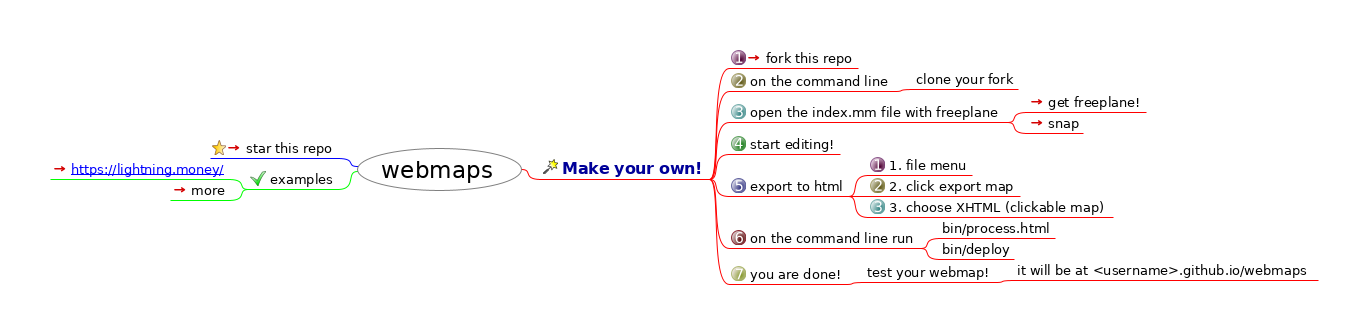
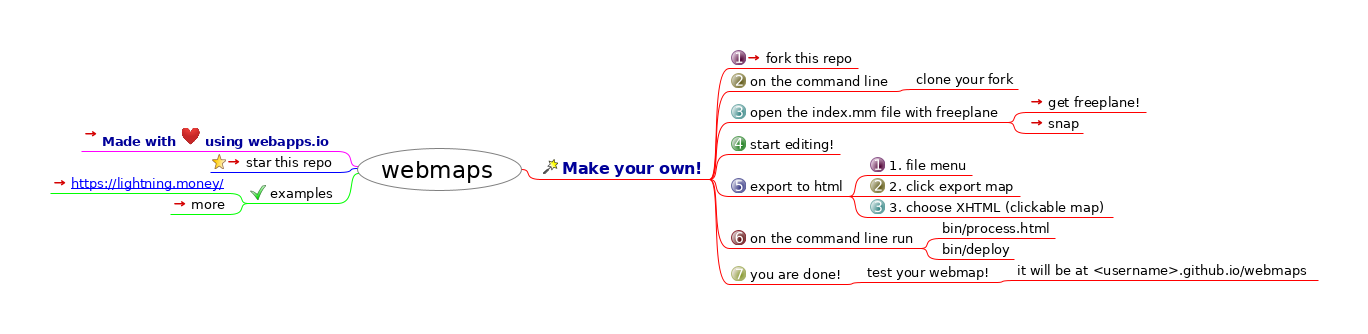
add made with heart

Changed region(s): [[0.0307, 0.3892, 0.2763, 0.6287]]

diff --git a/index.html b/index.html
@@ -42,13 +42,16 @@
 <area shape="rect" href="#FMID_1463249056FM" alt="you are done!" title="you are done!" coords="729,266,846,284" />
 <area shape="rect" href="#FMID_1342426050FM" alt="test your webmap!" title="test your webmap!" coords="865,264,996,282" />
 <area shape="rect" href="#FMID_791049591FM" alt="it will be at &lt;username&gt;.github.io/webma ..." title="it will be at &lt;username&gt;.github.io/webma ..." coords="1015,262,1318,280" />
-<area shape="rect" href="https://github.com/solidpayorg/webmaps/" alt="star this repo" title="star this repo" coords="210,140,338,158" />
-<area shape="rect" href="#FMID_428021122FM" alt="examples" title="examples" coords="248,171,338,189" />
-<area shape="rect" href="https://lightning.money/" alt="https://lightning.money/" title="https://lightning.money/" coords="50,161,229,179" />
-<area shape="rect" href="examples/index.html" alt="more" title="more" coords="170,182,229,200" />
+<area shape="rect" href="https://webapps.io/" alt="Made with  using webapps.io" title="Made with  using webapps.io" coords="81,126,338,151" />
+<area shape="rect" href="https://github.com/solidpayorg/webmaps/" alt="star this repo" title="star this repo" coords="210,154,338,172" />
+<area shape="rect" href="#FMID_428021122FM" alt="examples" title="examples" coords="248,185,338,203" />
+<area shape="rect" href="https://lightning.money/" alt="https://lightning.money/" title="https://lightning.money/" coords="50,175,229,193" />
+<area shape="rect" href="examples/index.html" alt="more" title="more" coords="170,196,229,214" />
 </map>
 
-<div class="node"><img src="index.html_files/hide.png" class="hideshow" alt="hide" onClick="toggle(&quot;N65543&quot;)" id="imgN65543" /><a id="FMID_110073400FM" /><div class="nodecontent" style="color:#000000;font-size:150%;">webmaps</div><div class="content" id="N65543"><div class="node"><img src="index.html_files/hide.png" class="hideshow" alt="hide" onClick="toggle(&quot;N66439&quot;)" id="imgN66439" /><img src="index.html_files/icons/wizard.svg" alt="wizard" /> <a id="FMID_1389208206FM" /><div class="nodecontent" style="color:#000099;font-size:100%;font-weight:bold;">Make your own!</div><div class="content" id="N66439"><div class="node"><img src="index.html_files/leaf.png" class="hideshow" alt="leaf" /><img src="index.html_files/icons/full-1.svg" alt="full-1" /> <a id="FMID_1738668143FM" /><div class="nodecontent" style="color:#000000;font-size:83%;"><a href="https://github.com/solidpayorg/webmaps/">fork this repo</a> <a href="https://github.com/solidpayorg/webmaps/"><img src="index.html_files/ilink.png" alt="User Link" style="border-width:0" /></a></div></div><div class="node"><img src="index.html_files/hide.png" class="hideshow" alt="hide" onClick="toggle(&quot;N66522&quot;)" id="imgN66522" /><img src="index.html_files/icons/full-2.svg" alt="full-2" /> <a id="FMID_1188995541FM" /><div class="nodecontent" style="color:#000000;font-size:83%;">on the command line</div><div class="content" id="N66522"><div class="node"><img src="index.html_files/leaf.png" class="hideshow" alt="leaf" /><a id="FMID_653799488FM" /><div class="nodecontent" style="color:#000000;font-size:83%;">clone your fork</div></div></div></div><div class="node"><img src="index.html_files/hide.png" class="hideshow" alt="hide" onClick="toggle(&quot;N66599&quot;)" id="imgN66599" /><img src="index.html_files/icons/full-3.svg" alt="full-3" /> <a id="FMID_1013629200FM" /><div class="nodecontent" style="color:#000000;font-size:83%;">open the index.mm file with freeplane</div><div class="content" id="N66599"><div class="node"><img src="index.html_files/leaf.png" class="hideshow" alt="leaf" /><a id="FMID_1320208052FM" /><div class="nodecontent" style="color:#000000;font-size:83%;"><a href="https://www.freeplane.org/wiki/index.php/Home">get freeplane!</a> <a href="https://www.freeplane.org/wiki/index.php/Home"><img src="index.html_files/ilink.png" alt="User Link" style="border-width:0" /></a></div></div><div class="node"><img src="index.html_files/leaf.png" class="hideshow" alt="leaf" /><a id="FMID_783749861FM" /><div class="nodecontent" style="color:#000000;font-size:83%;"><a href="https://snapcraft.io/freeplane-mindmapping">snap</a> <a href="https://snapcraft.io/freeplane-mindmapping"><img src="index.html_files/ilink.png" alt="User Link" style="border-width:0" /></a></div></div></div></div><div class="node"><img src="index.html_files/leaf.png" class="hideshow" alt="leaf" /><img src="index.html_files/icons/full-4.svg" alt="full-4" /> <a id="FMID_1410176299FM" /><div class="nodecontent" style="color:#000000;font-size:83%;">start editing!</div></div><div class="node"><img src="index.html_files/hide.png" class="hideshow" alt="hide" onClick="toggle(&quot;N66755&quot;)" id="imgN66755" /><img src="index.html_files/icons/full-5.svg" alt="full-5" /> <a id="FMID_278465196FM" /><div class="nodecontent" style="color:#000000;font-size:83%;">export to html</div><div class="content" id="N66755"><div class="node"><img src="index.html_files/leaf.png" class="hideshow" alt="leaf" /><img src="index.html_files/icons/full-1.svg" alt="full-1" /> <a id="FMID_347519982FM" /><div class="nodecontent" style="color:#000000;font-size:83%;">1. file menu</div></div><div class="node"><img src="index.html_files/leaf.png" class="hideshow" alt="leaf" /><img src="index.html_files/icons/full-2.svg" alt="full-2" /> <a id="FMID_1364431254FM" /><div class="nodecontent" style="color:#000000;font-size:83%;">2. click export map</div></div><div class="node"><img src="index.html_files/leaf.png" class="hideshow" alt="leaf" /><img src="index.html_files/icons/full-3.svg" alt="full-3" /> <a id="FMID_65834416FM" /><div class="nodecontent" style="color:#000000;font-size:83%;">3. choose XHTML (clickable map)</div></div></div></div><div class="node"><img src="index.html_files/hide.png" class="hideshow" alt="hide" onClick="toggle(&quot;N66919&quot;)" id="imgN66919" /><img src="index.html_files/icons/full-6.svg" alt="full-6" /> <a id="FMID_668125997FM" /><div class="nodecontent" style="color:#000000;font-size:83%;">on the command line run</div><div class="content" id="N66919"><div class="node"><img src="index.html_files/leaf.png" class="hideshow" alt="leaf" /><a id="FMID_417353516FM" /><div class="nodecontent" style="color:#000000;font-size:83%;">bin/process.html</div></div><div class="node"><img src="index.html_files/leaf.png" class="hideshow" alt="leaf" /><a id="FMID_1316516546FM" /><div class="nodecontent" style="color:#000000;font-size:83%;">bin/deploy</div></div></div></div><div class="node"><img src="index.html_files/hide.png" class="hideshow" alt="hide" onClick="toggle(&quot;N67032&quot;)" id="imgN67032" /><img src="index.html_files/icons/full-7.svg" alt="full-7" /> <a id="FMID_1463249056FM" /><div class="nodecontent" style="color:#000000;font-size:83%;">you are done!</div><div class="content" id="N67032"><div class="node"><img src="index.html_files/hide.png" class="hideshow" alt="hide" onClick="toggle(&quot;N67072&quot;)" id="imgN67072" /><a id="FMID_1342426050FM" /><div class="nodecontent" style="color:#000000;font-size:83%;">test your webmap!</div><div class="content" id="N67072"><div class="node"><img src="index.html_files/leaf.png" class="hideshow" alt="leaf" /><a id="FMID_791049591FM" /><div class="nodecontent" style="color:#000000;font-size:83%;">it will be at &lt;username&gt;.github.io/webmaps</div></div></div></div></div></div></div></div><div class="node"><img src="index.html_files/leaf.png" class="hideshow" alt="leaf" /><img src="index.html_files/icons/bookmark.svg" alt="bookmark" /> <a id="FMID_634574866FM" /><div class="nodecontent" style="color:#000000;font-size:83%;"><a href="https://github.com/solidpayorg/webmaps/">star this repo</a> <a href="https://github.com/solidpayorg/webmaps/"><img src="index.html_files/ilink.png" alt="User Link" style="border-width:0" /></a></div></div><div class="node"><img src="index.html_files/hide.png" class="hideshow" alt="hide" onClick="toggle(&quot;N67189&quot;)" id="imgN67189" /><img src="index.html_files/icons/button_ok.svg" alt="button_ok" /> <a id="FMID_428021122FM" /><div class="nodecontent" style="color:#000000;font-size:83%;">examples</div><div class="content" id="N67189"><div class="node"><img src="index.html_files/leaf.png" class="hideshow" alt="leaf" /><a id="FMID_1055482545FM" /><div class="nodecontent" style="color:#000000;font-size:83%;"><a href="https://lightning.money/">
+<div class="node"><img src="index.html_files/hide.png" class="hideshow" alt="hide" onClick="toggle(&quot;N65543&quot;)" id="imgN65543" /><a id="FMID_110073400FM" /><div class="nodecontent" style="color:#000000;font-size:150%;">webmaps</div><div class="content" id="N65543"><div class="node"><img src="index.html_files/hide.png" class="hideshow" alt="hide" onClick="toggle(&quot;N66439&quot;)" id="imgN66439" /><img src="index.html_files/icons/wizard.svg" alt="wizard" /> <a id="FMID_1389208206FM" /><div class="nodecontent" style="color:#000099;font-size:100%;font-weight:bold;">Make your own!</div><div class="content" id="N66439"><div class="node"><img src="index.html_files/leaf.png" class="hideshow" alt="leaf" /><img src="index.html_files/icons/full-1.svg" alt="full-1" /> <a id="FMID_1738668143FM" /><div class="nodecontent" style="color:#000000;font-size:83%;"><a href="https://github.com/solidpayorg/webmaps/">fork this repo</a> <a href="https://github.com/solidpayorg/webmaps/"><img src="index.html_files/ilink.png" alt="User Link" style="border-width:0" /></a></div></div><div class="node"><img src="index.html_files/hide.png" class="hideshow" alt="hide" onClick="toggle(&quot;N66522&quot;)" id="imgN66522" /><img src="index.html_files/icons/full-2.svg" alt="full-2" /> <a id="FMID_1188995541FM" /><div class="nodecontent" style="color:#000000;font-size:83%;">on the command line</div><div class="content" id="N66522"><div class="node"><img src="index.html_files/leaf.png" class="hideshow" alt="leaf" /><a id="FMID_653799488FM" /><div class="nodecontent" style="color:#000000;font-size:83%;">clone your fork</div></div></div></div><div class="node"><img src="index.html_files/hide.png" class="hideshow" alt="hide" onClick="toggle(&quot;N66599&quot;)" id="imgN66599" /><img src="index.html_files/icons/full-3.svg" alt="full-3" /> <a id="FMID_1013629200FM" /><div class="nodecontent" style="color:#000000;font-size:83%;">open the index.mm file with freeplane</div><div class="content" id="N66599"><div class="node"><img src="index.html_files/leaf.png" class="hideshow" alt="leaf" /><a id="FMID_1320208052FM" /><div class="nodecontent" style="color:#000000;font-size:83%;"><a href="https://www.freeplane.org/wiki/index.php/Home">get freeplane!</a> <a href="https://www.freeplane.org/wiki/index.php/Home"><img src="index.html_files/ilink.png" alt="User Link" style="border-width:0" /></a></div></div><div class="node"><img src="index.html_files/leaf.png" class="hideshow" alt="leaf" /><a id="FMID_783749861FM" /><div class="nodecontent" style="color:#000000;font-size:83%;"><a href="https://snapcraft.io/freeplane-mindmapping">snap</a> <a href="https://snapcraft.io/freeplane-mindmapping"><img src="index.html_files/ilink.png" alt="User Link" style="border-width:0" /></a></div></div></div></div><div class="node"><img src="index.html_files/leaf.png" class="hideshow" alt="leaf" /><img src="index.html_files/icons/full-4.svg" alt="full-4" /> <a id="FMID_1410176299FM" /><div class="nodecontent" style="color:#000000;font-size:83%;">start editing!</div></div><div class="node"><img src="index.html_files/hide.png" class="hideshow" alt="hide" onClick="toggle(&quot;N66755&quot;)" id="imgN66755" /><img src="index.html_files/icons/full-5.svg" alt="full-5" /> <a id="FMID_278465196FM" /><div class="nodecontent" style="color:#000000;font-size:83%;">export to html</div><div class="content" id="N66755"><div class="node"><img src="index.html_files/leaf.png" class="hideshow" alt="leaf" /><img src="index.html_files/icons/full-1.svg" alt="full-1" /> <a id="FMID_347519982FM" /><div class="nodecontent" style="color:#000000;font-size:83%;">1. file menu</div></div><div class="node"><img src="index.html_files/leaf.png" class="hideshow" alt="leaf" /><img src="index.html_files/icons/full-2.svg" alt="full-2" /> <a id="FMID_1364431254FM" /><div class="nodecontent" style="color:#000000;font-size:83%;">2. click export map</div></div><div class="node"><img src="index.html_files/leaf.png" class="hideshow" alt="leaf" /><img src="index.html_files/icons/full-3.svg" alt="full-3" /> <a id="FMID_65834416FM" /><div class="nodecontent" style="color:#000000;font-size:83%;">3. choose XHTML (clickable map)</div></div></div></div><div class="node"><img src="index.html_files/hide.png" class="hideshow" alt="hide" onClick="toggle(&quot;N66919&quot;)" id="imgN66919" /><img src="index.html_files/icons/full-6.svg" alt="full-6" /> <a id="FMID_668125997FM" /><div class="nodecontent" style="color:#000000;font-size:83%;">on the command line run</div><div class="content" id="N66919"><div class="node"><img src="index.html_files/leaf.png" class="hideshow" alt="leaf" /><a id="FMID_417353516FM" /><div class="nodecontent" style="color:#000000;font-size:83%;">bin/process.html</div></div><div class="node"><img src="index.html_files/leaf.png" class="hideshow" alt="leaf" /><a id="FMID_1316516546FM" /><div class="nodecontent" style="color:#000000;font-size:83%;">bin/deploy</div></div></div></div><div class="node"><img src="index.html_files/hide.png" class="hideshow" alt="hide" onClick="toggle(&quot;N67032&quot;)" id="imgN67032" /><img src="index.html_files/icons/full-7.svg" alt="full-7" /> <a id="FMID_1463249056FM" /><div class="nodecontent" style="color:#000000;font-size:83%;">you are done!</div><div class="content" id="N67032"><div class="node"><img src="index.html_files/hide.png" class="hideshow" alt="hide" onClick="toggle(&quot;N67072&quot;)" id="imgN67072" /><a id="FMID_1342426050FM" /><div class="nodecontent" style="color:#000000;font-size:83%;">test your webmap!</div><div class="content" id="N67072"><div class="node"><img src="index.html_files/leaf.png" class="hideshow" alt="leaf" /><a id="FMID_791049591FM" /><div class="nodecontent" style="color:#000000;font-size:83%;">it will be at &lt;username&gt;.github.io/webmaps</div></div></div></div></div></div></div></div><div class="node"><img src="index.html_files/leaf.png" class="hideshow" alt="leaf" /><a id="FMID_1974475433FM" /><div class="nodecontent" style="color:#000099;font-size:83%;font-weight:bold;"><a href="https://webapps.io/">
+    Made with <img class="emoji" alt="heart" height="20" width="20" src="https://github.githubassets.com/images/icons/emoji/unicode/2764.png" style="border-top-style: none; border-right-style: none; border-bottom-style: none; border-left-style: none" /> using webapps.io
+  </a> <a href="https://webapps.io/"><img src="index.html_files/ilink.png" alt="User Link" style="border-width:0" /></a></div></div><div class="node"><img src="index.html_files/leaf.png" class="hideshow" alt="leaf" /><img src="index.html_files/icons/bookmark.svg" alt="bookmark" /> <a id="FMID_634574866FM" /><div class="nodecontent" style="color:#000000;font-size:83%;"><a href="https://github.com/solidpayorg/webmaps/">star this repo</a> <a href="https://github.com/solidpayorg/webmaps/"><img src="index.html_files/ilink.png" alt="User Link" style="border-width:0" /></a></div></div><div class="node"><img src="index.html_files/hide.png" class="hideshow" alt="hide" onClick="toggle(&quot;N67247&quot;)" id="imgN67247" /><img src="index.html_files/icons/button_ok.svg" alt="button_ok" /> <a id="FMID_428021122FM" /><div class="nodecontent" style="color:#000000;font-size:83%;">examples</div><div class="content" id="N67247"><div class="node"><img src="index.html_files/leaf.png" class="hideshow" alt="leaf" /><a id="FMID_1055482545FM" /><div class="nodecontent" style="color:#000000;font-size:83%;"><a href="https://lightning.money/">
     <a http-equiv="content-type" content="text/html; charset=utf-8" href="https://lightning.money/">https://lightning.money/</a>
   </a> <a href="https://lightning.money/"><img src="index.html_files/ilink.png" alt="User Link" style="border-width:0" /></a></div></div><div class="node"><img src="index.html_files/leaf.png" class="hideshow" alt="leaf" /><a id="FMID_1185474668FM" /><div class="nodecontent" style="color:#000000;font-size:83%;"><a href="examples/index.html">more</a> <a href="examples/index.html"><img src="index.html_files/ilink.png" alt="User Link" style="border-width:0" /></a></div></div></div></div></div></div>
 </body></html>

diff --git a/index.mm b/index.mm
@@ -63,11 +63,11 @@
 </stylenode>
 </map_styles>
 </hook>
-<hook NAME="AutomaticEdgeColor" COUNTER="3" RULE="ON_BRANCH_CREATION"/>
+<hook NAME="AutomaticEdgeColor" COUNTER="4" RULE="ON_BRANCH_CREATION"/>
 <node TEXT="Make your own!" POSITION="right" ID="ID_1389208206" CREATED="1570293607657" MODIFIED="1571993449165" COLOR="#000099">
 <icon BUILTIN="wizard"/>
-<edge COLOR="#ff0000"/>
 <font SIZE="12" BOLD="true"/>
+<edge COLOR="#ff0000"/>
 <node TEXT="fork this repo" ID="ID_1738668143" CREATED="1570293615063" MODIFIED="1570385431199" LINK="https://github.com/solidpayorg/webmaps/">
 <icon BUILTIN="full-1"/>
 </node>
@@ -106,6 +106,21 @@
 <node TEXT="it will be at &lt;username&gt;.github.io/webmaps" ID="ID_791049591" CREATED="1570294771137" MODIFIED="1570294799091"/>
 </node>
 </node>
+</node>
+<node POSITION="left" ID="ID_1974475433" CREATED="1578928125418" MODIFIED="1578928457614" LINK="https://webapps.io/" COLOR="#000099"><richcontent TYPE="NODE">
+
+<html>
+  <head>
+    
+  </head>
+  <body>
+    Made with <img class="emoji" alt="heart" height="20" width="20" src="https://github.githubassets.com/images/icons/emoji/unicode/2764.png" style="border-top-style: none; border-right-style: none; border-bottom-style: none; border-left-style: none"/>&#160;using webapps.io
+  </body>
+</html>
+
+</richcontent>
+<font SIZE="10" BOLD="true"/>
+<edge COLOR="#ff00ff"/>
 </node>
 <node TEXT="star this repo" POSITION="left" ID="ID_634574866" CREATED="1570294548787" MODIFIED="1570294809542" LINK="https://github.com/solidpayorg/webmaps/">
 <icon BUILTIN="bookmark"/>
